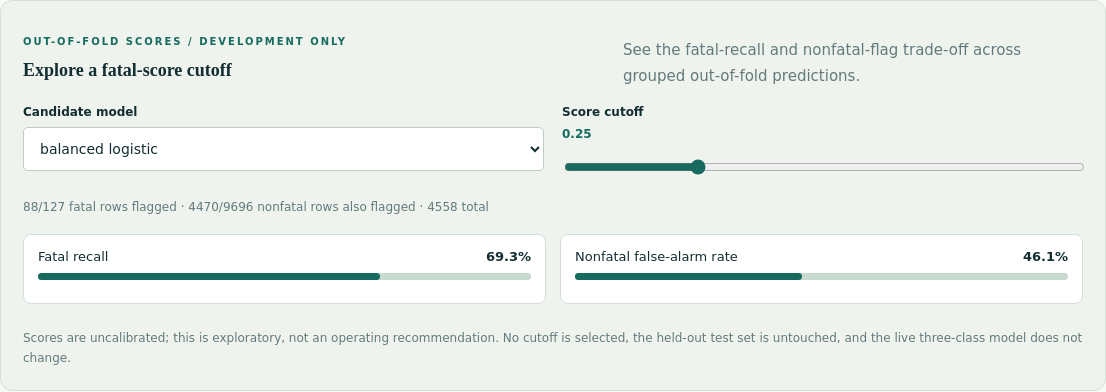
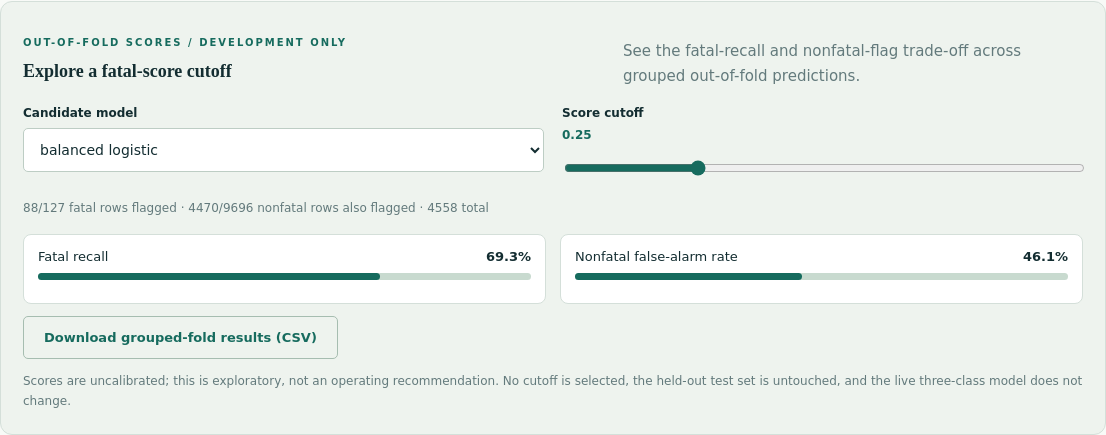
Export grouped fatal cutoff results

diff --git a/web/index.html b/web/index.html
@@ -1,1 +1,1 @@
-<!doctype html><html lang="en"><head><meta charset="UTF-8"><meta name="viewport" content="width=device-width,initial-scale=1"><title>RoadLab — Severity study</title><link rel="stylesheet" href="/static/style.css"></head><body><header><a class="brand" href="/">R/ <span>RoadLab</span></a><span class="chip">LOCAL EXPERIMENT / 01</span></header><main><section class="hero"><div><p class="eyebrow">FROM A NOTEBOOK TO A TESTABLE SYSTEM</p><h1>Understand the signal.<br><em>Respect the uncertainty.</em></h1><p class="lede">A road accident severity study. Explore measured model performance, then run a real local inference on a hypothetical scene.</p></div><div class="road" aria-hidden="true"><i></i><i></i><i></i><i></i><b>01</b></div></section><div class="notice">Research prototype only. These are retrospective accident records—not a pre-crash forecast, live traffic service or emergency triage system.</div><div id="status" role="status">Loading local model…</div><section class="metrics" id="metrics"></section><nav role="tablist" aria-label="Workspace views"><button type="button" role="tab" id="tab-experiment" aria-controls="experiment" aria-selected="true" tabindex="0" class="active" data-tab="experiment">01 / Experiment</button><button type="button" role="tab" id="tab-evaluation" aria-controls="evaluation" aria-selected="false" tabindex="-1" data-tab="evaluation">02 / Evidence</button><button type="button" role="tab" id="tab-method" aria-controls="method" aria-selected="false" tabindex="-1" data-tab="method">03 / Method</button></nav><section id="experiment" class="tab" role="tabpanel" aria-labelledby="tab-experiment" tabindex="0"><div class="workspace"><div><p class="eyebrow">BUILD A SCENE</p><h2>A small change.<br>A different response?</h2><p>Inputs are constrained to categories observed in training. Missing means unknown, not an assumed average.</p><button id="example" class="secondary">Load training example</button><form id="form"><div class="fields" id="fields"></div><button class="primary" id="run">Run local inference <span>↗</span></button></form></div><aside><p class="eyebrow">MODEL RESPONSE</p><div id="result" aria-live="polite"><h3>Ready when you are.</h3><p>Choose a scene and run the model. No inputs leave this local server.</p></div><p class="small">Scores are uncalibrated model outputs. A larger score does not make the result reliable or suitable for an individual decision.</p></aside></div></section><section id="evaluation" class="tab" role="tabpanel" aria-labelledby="tab-evaluation" tabindex="0" hidden><div class="section-head"><div><p class="eyebrow">MEASURED, NOT PROMISED</p><h2>Accuracy can hide the hardest cases.</h2></div><p>Model selection uses validation macro-F1. Test results are measured only after the candidates and selection rule are fixed.</p></div><div class="tablewrap"><table><thead><tr><th>Candidate</th><th>Validation macro-F1</th><th>Test macro-F1</th><th>Test accuracy</th><th>Balanced accuracy</th></tr></thead><tbody id="comparison"></tbody></table></div><h3>Selected model · per-class recall</h3><div id="recalls"></div><p id="fatal-recall-ci" class="small"></p><section class="validation-audit" aria-labelledby="fatal-audit-heading"><div class="section-head"><div><p class="eyebrow">EXPLORATORY ERROR REVIEW / VALIDATION</p><h3 id="fatal-audit-heading">Where fatal cases were missed</h3></div><p id="fatal-audit-summary"></p></div><div class="tablewrap"><table><thead><tr><th>Predicted label for missed fatal rows</th><th>Count</th></tr></thead><tbody id="fatal-audit-breakdown"></tbody></table></div><p id="fatal-audit-note" class="small"></p></section><section class="cross-validation" aria-labelledby="cv-heading"><div class="section-head"><div><p class="eyebrow">GROUPED CROSS-VALIDATION / DEVELOPMENT ONLY</p><h3 id="cv-heading">Fatal-recall trade-offs</h3></div><p id="cv-summary"></p></div><div class="tablewrap"><table><thead><tr><th>Candidate</th><th>OOF fatal recall</th><th>Fatal recall by fold</th><th>OOF macro-F1 · fold mean ± SD</th></tr></thead><tbody id="cv-results"></tbody></table></div><p id="cv-note" class="small"></p><section class="threshold-explorer" aria-labelledby="threshold-heading"><div class="section-head"><div><p class="eyebrow">OUT-OF-FOLD SCORES / DEVELOPMENT ONLY</p><h4 id="threshold-heading">Explore a fatal-score cutoff</h4></div><p>See the fatal-recall and nonfatal-flag trade-off across grouped out-of-fold predictions.</p></div><div class="threshold-controls"><label for="fatal-threshold-model">Candidate model<select id="fatal-threshold-model"></select></label><label for="fatal-threshold-slider">Score cutoff <output id="fatal-threshold-value" for="fatal-threshold-slider">0.50</output><input id="fatal-threshold-slider" type="range" min="0" max="1" step="0.05" value="0.50"></label></div><p id="fatal-threshold-counts" class="small" aria-live="polite"></p><div id="fatal-threshold-scores" class="threshold-scores"></div><p class="small">Scores are uncalibrated; this is exploratory, not an operating recommendation. No cutoff is selected, the held-out test set is untouched, and the live three-class model does not change.</p></section></section><img src="/static/evaluation.png" alt="Confusion matrix and model comparison on the held-out grouped test set"><div id="interval" class="interval-grid" aria-label="Macro-F1 uncertainty intervals"></div><p id="interval-note" class="small"></p></section><section id="method" class="tab" role="tabpanel" aria-labelledby="tab-method" tabindex="0" hidden><p class="eyebrow">THE ENGINEERING CHOICES</p><h2>A model is only one part of the project.</h2><div class="methodgrid"><article><h3>01 / Prevent leakage</h3><p>Casualty severity, injury details, casualty counts and accident cause are excluded. Identical selected-feature profiles stay within a single split, even with conflicting labels.</p></article><article><h3>02 / Fit only on train</h3><p>Imputation, scaling and one-hot encoding live inside a scikit-learn Pipeline. Validation selects the model; the test split never trains it.</p></article><article><h3>03 / Examine weak classes</h3><p>Majority baseline, macro-F1, balanced accuracy, per-class recall, confusion matrix and a stratified bootstrap interval make imbalance visible.</p></article><article><h3>04 / Keep limits visible</h3><p>There is no independent temporal or geographic validation. This dataset is retrospective and rare fatal cases limit confidence. Do not use it for safety decisions.</p></article></div><pre id="provenance"></pre><a href="/docs">Explore the API contract ↗</a></section><footer>RoadLab / An AI-assisted engineering study based on the Samatrix road-severity exercise. <span>Built to inspect, reproduce and explain.</span></footer></main><script src="/static/app.js"></script></body></html>
+<!doctype html><html lang="en"><head><meta charset="UTF-8"><meta name="viewport" content="width=device-width,initial-scale=1"><title>RoadLab — Severity study</title><link rel="stylesheet" href="/static/style.css"></head><body><header><a class="brand" href="/">R/ <span>RoadLab</span></a><span class="chip">LOCAL EXPERIMENT / 01</span></header><main><section class="hero"><div><p class="eyebrow">FROM A NOTEBOOK TO A TESTABLE SYSTEM</p><h1>Understand the signal.<br><em>Respect the uncertainty.</em></h1><p class="lede">A road accident severity study. Explore measured model performance, then run a real local inference on a hypothetical scene.</p></div><div class="road" aria-hidden="true"><i></i><i></i><i></i><i></i><b>01</b></div></section><div class="notice">Research prototype only. These are retrospective accident records—not a pre-crash forecast, live traffic service or emergency triage system.</div><div id="status" role="status">Loading local model…</div><section class="metrics" id="metrics"></section><nav role="tablist" aria-label="Workspace views"><button type="button" role="tab" id="tab-experiment" aria-controls="experiment" aria-selected="true" tabindex="0" class="active" data-tab="experiment">01 / Experiment</button><button type="button" role="tab" id="tab-evaluation" aria-controls="evaluation" aria-selected="false" tabindex="-1" data-tab="evaluation">02 / Evidence</button><button type="button" role="tab" id="tab-method" aria-controls="method" aria-selected="false" tabindex="-1" data-tab="method">03 / Method</button></nav><section id="experiment" class="tab" role="tabpanel" aria-labelledby="tab-experiment" tabindex="0"><div class="workspace"><div><p class="eyebrow">BUILD A SCENE</p><h2>A small change.<br>A different response?</h2><p>Inputs are constrained to categories observed in training. Missing means unknown, not an assumed average.</p><button id="example" class="secondary">Load training example</button><form id="form"><div class="fields" id="fields"></div><button class="primary" id="run">Run local inference <span>↗</span></button></form></div><aside><p class="eyebrow">MODEL RESPONSE</p><div id="result" aria-live="polite"><h3>Ready when you are.</h3><p>Choose a scene and run the model. No inputs leave this local server.</p></div><p class="small">Scores are uncalibrated model outputs. A larger score does not make the result reliable or suitable for an individual decision.</p></aside></div></section><section id="evaluation" class="tab" role="tabpanel" aria-labelledby="tab-evaluation" tabindex="0" hidden><div class="section-head"><div><p class="eyebrow">MEASURED, NOT PROMISED</p><h2>Accuracy can hide the hardest cases.</h2></div><p>Model selection uses validation macro-F1. Test results are measured only after the candidates and selection rule are fixed.</p></div><div class="tablewrap"><table><thead><tr><th>Candidate</th><th>Validation macro-F1</th><th>Test macro-F1</th><th>Test accuracy</th><th>Balanced accuracy</th></tr></thead><tbody id="comparison"></tbody></table></div><h3>Selected model · per-class recall</h3><div id="recalls"></div><p id="fatal-recall-ci" class="small"></p><section class="validation-audit" aria-labelledby="fatal-audit-heading"><div class="section-head"><div><p class="eyebrow">EXPLORATORY ERROR REVIEW / VALIDATION</p><h3 id="fatal-audit-heading">Where fatal cases were missed</h3></div><p id="fatal-audit-summary"></p></div><div class="tablewrap"><table><thead><tr><th>Predicted label for missed fatal rows</th><th>Count</th></tr></thead><tbody id="fatal-audit-breakdown"></tbody></table></div><p id="fatal-audit-note" class="small"></p></section><section class="cross-validation" aria-labelledby="cv-heading"><div class="section-head"><div><p class="eyebrow">GROUPED CROSS-VALIDATION / DEVELOPMENT ONLY</p><h3 id="cv-heading">Fatal-recall trade-offs</h3></div><p id="cv-summary"></p></div><div class="tablewrap"><table><thead><tr><th>Candidate</th><th>OOF fatal recall</th><th>Fatal recall by fold</th><th>OOF macro-F1 · fold mean ± SD</th></tr></thead><tbody id="cv-results"></tbody></table></div><p id="cv-note" class="small"></p><section class="threshold-explorer" aria-labelledby="threshold-heading"><div class="section-head"><div><p class="eyebrow">OUT-OF-FOLD SCORES / DEVELOPMENT ONLY</p><h4 id="threshold-heading">Explore a fatal-score cutoff</h4></div><p>See the fatal-recall and nonfatal-flag trade-off across grouped out-of-fold predictions.</p></div><div class="threshold-controls"><label for="fatal-threshold-model">Candidate model<select id="fatal-threshold-model"></select></label><label for="fatal-threshold-slider">Score cutoff <output id="fatal-threshold-value" for="fatal-threshold-slider">0.50</output><input id="fatal-threshold-slider" type="range" min="0" max="1" step="0.05" value="0.50"></label></div><p id="fatal-threshold-counts" class="small" aria-live="polite"></p><div id="fatal-threshold-scores" class="threshold-scores"></div><button id="export-fatal-cutoffs" class="secondary" type="button">Download grouped-fold results (CSV)</button><p class="small">Scores are uncalibrated; this is exploratory, not an operating recommendation. No cutoff is selected, the held-out test set is untouched, and the live three-class model does not change.</p></section></section><img src="/static/evaluation.png" alt="Confusion matrix and model comparison on the held-out grouped test set"><div id="interval" class="interval-grid" aria-label="Macro-F1 uncertainty intervals"></div><p id="interval-note" class="small"></p></section><section id="method" class="tab" role="tabpanel" aria-labelledby="tab-method" tabindex="0" hidden><p class="eyebrow">THE ENGINEERING CHOICES</p><h2>A model is only one part of the project.</h2><div class="methodgrid"><article><h3>01 / Prevent leakage</h3><p>Casualty severity, injury details, casualty counts and accident cause are excluded. Identical selected-feature profiles stay within a single split, even with conflicting labels.</p></article><article><h3>02 / Fit only on train</h3><p>Imputation, scaling and one-hot encoding live inside a scikit-learn Pipeline. Validation selects the model; the test split never trains it.</p></article><article><h3>03 / Examine weak classes</h3><p>Majority baseline, macro-F1, balanced accuracy, per-class recall, confusion matrix and a stratified bootstrap interval make imbalance visible.</p></article><article><h3>04 / Keep limits visible</h3><p>There is no independent temporal or geographic validation. This dataset is retrospective and rare fatal cases limit confidence. Do not use it for safety decisions.</p></article></div><pre id="provenance"></pre><a href="/docs">Explore the API contract ↗</a></section><footer>RoadLab / An AI-assisted engineering study based on the Samatrix road-severity exercise. <span>Built to inspect, reproduce and explain.</span></footer></main><script src="/static/app.js"></script></body></html>

diff --git a/web/app.js b/web/app.js
@@ -10,5 +10,6 @@ tabs.forEach((button,index)=>{button.addEventListener('click',()=>activateTab(bu
 async function init(){try{const response=await fetch('/api/metadata');if(!response.ok)throw Error('Model unavailable. Train the model, then restart the server.');meta=await response.json();const {schema,metrics:m}=meta;$('#status').textContent='Model ready · '+pretty(m.selected)+' · local inference';[['Test macro-F1',m.models[m.selected].test.macro_f1.toFixed(3)],['Fatal cases in test',m.split.class_counts.test['Fatal injury']],['Held-out test rows',m.split.rows.test],['Feature-profile overlap',m.split.profile_overlap]].forEach(([name,value])=>{const card=el('div','');card.className='metric';card.append(el('strong',value),el('span',name));$('#metrics').append(card)});schema.features.forEach(key=>{const label=el('label',pretty(key));let input;if(schema.categories[key]){input=el('select','');input.append(new Option('Unknown / missing',''));schema.categories[key].forEach(value=>input.append(new Option(value,value)))}else{input=el('input','');input.type='number';input.min=schema.numeric[key].min;input.max=schema.numeric[key].max;input.step='1';input.placeholder='Unknown';}input.name=key;label.append(input);$('#fields').append(label)});Object.entries(m.models).forEach(([name,report])=>{const row=el('tr','');if(name===m.selected)row.className='selected';[pretty(name)+(name===m.selected?' · selected':''),report.validation_macro_f1.toFixed(3),report.test.macro_f1.toFixed(3),pct(report.test.accuracy),pct(report.test.balanced_accuracy)].forEach(v=>row.append(el('td',v)));$('#comparison').append(row)});scores($('#recalls'),m.labels.map(label=>[label,m.models[m.selected].test.per_class[label].recall]));const fatalCounts=m.selected_fatal_recall_test_counts,fatalInterval=m.selected_fatal_recall_wilson_95_ci;$('#fatal-recall-ci').textContent='Fatal recall: '+fatalCounts.detected+'/'+fatalCounts.fatal_rows+' test cases; 95% Wilson interval '+pct(fatalInterval[0])+'–'+pct(fatalInterval[1])+'. This reflects sampling variation for this fixed model and test set only.';const audit=m.validation_fatal_error_analysis;$('#fatal-audit-summary').textContent=audit.correctly_classified+' of '+audit.fatal_rows+' fatal-labelled validation rows were classified as fatal; '+audit.missed+' were missed.';audit.missed_predictions.forEach(item=>{const row=el('tr','');row.append(el('td',item.label),el('td',item.count));$('#fatal-audit-breakdown').append(row)});$('#fatal-audit-note').textContent=audit.interpretation;const cv=m.development_grouped_cross_validation;$('#cv-summary').textContent=cv.n_splits+'-fold '+cv.method+' · '+cv.development_rows.toLocaleString('en-US')+' development rows; fatal rows per fold: '+cv.folds.map(fold=>fold.validation_fatal_rows).join(' / ')+'.';Object.entries(cv.models).forEach(([name,stats])=>{const row=el('tr','');row.append(el('td',pretty(name)),el('td',pct(stats.oof_fatal_recall)+' · '+stats.oof_fatal_correct+'/'+stats.oof_fatal_rows),el('td',stats.fold_fatal_recall.map(pct).join(' / ')),el('td',stats.oof_macro_f1.toFixed(3)+' · '+stats.mean_fold_macro_f1.toFixed(3)+' ± '+stats.sd_fold_macro_f1.toFixed(3)));$('#cv-results').append(row)});$('#cv-note').textContent=cv.scope+' Group keys are hashes of input-feature profiles, not incident IDs; this cannot rule out overlap between distinct records from the same accident.';const thresholdModel=$('#fatal-threshold-model');Object.keys(cv.models).forEach(name=>thresholdModel.append(new Option(pretty(name),name)));thresholdModel.value=m.selected;const thresholdSlider=$('#fatal-threshold-slider');const updateThreshold=()=>{const cutoff=Number(thresholdSlider.value);const points=cv.models[thresholdModel.value].fatal_score_threshold_curve;const point=points.reduce((best,item)=>Math.abs(item.threshold-cutoff)<Math.abs(best.threshold-cutoff)?item:best,points[0]);$('#fatal-threshold-value').value=point.threshold.toFixed(2);$('#fatal-threshold-value').textContent=point.threshold.toFixed(2);$('#fatal-threshold-counts').textContent=point.fatal_detected+'/'+point.fatal_rows+' fatal rows flagged · '+point.nonfatal_flagged+'/'+point.nonfatal_rows+' nonfatal rows also flagged · '+point.all_rows_flagged+' total';scores($('#fatal-threshold-scores'),[['Fatal recall',point.fatal_recall],['Nonfatal false-alarm rate',point.nonfatal_false_alarm_rate]])};thresholdSlider.addEventListener('input',updateThreshold);thresholdModel.addEventListener('change',updateThreshold);updateThreshold();const intervalCard=(title,bounds,detail)=>{const card=el('div','');card.className='interval-card';card.append(el('span',title),el('strong',bounds.map(x=>x.toFixed(3)).join('–')),el('small',detail));return card};const profile=m.profile_cluster_bootstrap;$('#interval').replaceChildren(intervalCard('Stratified row bootstrap',m.selected_macro_f1_bootstrap_95_ci,m.bootstrap_replicates+' resamples'),intervalCard('Profile-cluster sensitivity',profile.interval,profile.replicates+' resamples · '+profile.test_profile_groups.toLocaleString('en-US')+' test profiles'));$('#interval-note').textContent='The clusters are identical input profiles, not incident IDs; this sensitivity interval addresses repeated profiles only. Both intervals are descriptive for this fixed model and holdout, not dataset shift or model-selection uncertainty.';$('#provenance').textContent='Data: '+m.dataset.raw_rows+' raw records → '+m.dataset.unique_rows+' unique records.\nSplit: '+m.split.method+'; seed '+m.seed+'.\nTraining / validation / test: '+Object.values(m.split.rows).join(' / ')+'.\nDataset SHA-256: '+m.dataset.sha256;loadExample();}catch(error){$('#status').textContent=error.message;$('#run').disabled=true;}}
 function loadExample(){if(!meta)return;const sample=meta.examples[example++%meta.examples.length];Object.entries(sample).forEach(([key,value])=>{$('#form').elements[key].value=value??''});}
 $('#example').onclick=loadExample;
+$('#export-fatal-cutoffs').onclick=()=>{const name=$('#fatal-threshold-model').value;const points=meta.metrics.development_grouped_cross_validation.models[name].fatal_score_threshold_curve;const columns=['threshold','fatal_detected','fatal_rows','fatal_recall','nonfatal_flagged','nonfatal_rows','nonfatal_false_alarm_rate','all_rows_flagged'];const quote=value=>'"'+String(value).replaceAll('"','""')+'"';const csv=[columns,...points.map(point=>columns.map(key=>point[key]))].map(row=>row.map(quote).join(',')).join('\r\n');const blob=new Blob([csv],{type:'text/csv;charset=utf-8'});const link=document.createElement('a');link.href=URL.createObjectURL(blob);link.download='roadlab-'+name+'-fatal-cutoffs.csv';link.click();setTimeout(()=>URL.revokeObjectURL(link.href),1000);};
 $('#form').onsubmit=async event=>{event.preventDefault();const record={};for(const key of meta.schema.features){const value=$('#form').elements[key].value;record[key]=value===''?null:meta.schema.numeric[key]?Number(value):value;}$('#run').disabled=true;$('#result').textContent='Running…';try{const response=await fetch('/api/predict',{method:'POST',headers:{'Content-Type':'application/json'},body:JSON.stringify({records:[record]})});const data=await response.json();if(!response.ok)throw Error(typeof data.detail==='string'?data.detail:JSON.stringify(data.detail));const prediction=data.predictions[0];$('#result').replaceChildren(el('h3',prediction.label),el('p','Highest-scoring class, not a verified outcome.'));const bars=el('div','');scores(bars,Object.entries(prediction.scores));$('#result').append(bars);}catch(error){$('#result').textContent=error.message;}finally{$('#run').disabled=false;}};
 init();

diff --git a/scripts/check_ui.py b/scripts/check_ui.py
@@ -46,6 +46,8 @@ with sync_playwright() as p:
     assert page.locator('#cv-results tr').count() == 4
     assert page.locator('#cv-results tr').first.locator('td').count() == 4
     assert page.locator('#fatal-threshold-model option').count() == 4
+    assert '11/31 test cases' in page.locator('#fatal-recall-ci').inner_text()
+    assert 'wilson interval' in page.locator('#fatal-recall-ci').inner_text().lower()
     assert 'fatal recall' in page.locator('#fatal-threshold-scores').inner_text().lower()
     assert 'nonfatal false-alarm rate' in page.locator('#fatal-threshold-scores').inner_text().lower()
     page.locator('#fatal-threshold-slider').evaluate("element => { element.value = '0.25'; element.dispatchEvent(new Event('input', { bubbles: true })); }")
@@ -54,6 +56,14 @@ with sync_playwright() as p:
     page.locator('#fatal-threshold-model').select_option('balanced_logistic')
     assert 'fatal rows flagged' in page.locator('#fatal-threshold-counts').inner_text().lower()
     assert 'no cutoff is selected' in page.locator('.threshold-explorer').inner_text().lower()
+    with page.expect_download() as download_info:
+        page.locator('#export-fatal-cutoffs').click()
+    download = download_info.value
+    assert download.suggested_filename == 'roadlab-balanced_logistic-fatal-cutoffs.csv'
+    download.save_as('/tmp/roadlab-fatal-cutoffs.csv')
+    csv_text = Path('/tmp/roadlab-fatal-cutoffs.csv').read_text()
+    assert csv_text.startswith('\"threshold\",\"fatal_detected\"')
+    assert len(csv_text.splitlines()) == 22
     assert page.locator('#interval .interval-card').count() == 2
     interval_cards = page.locator('#interval .interval-card')
     assert 'stratified row bootstrap' in interval_cards.nth(0).inner_text().lower()

diff --git a/docs/MODEL-CARD.md b/docs/MODEL-CARD.md
@@ -11,7 +11,7 @@ Ten fields: hour, vehicles involved, day, area type, junction, road surface type
 
 All learned imputation/encoding/scaling occurs within a training-fitted Pipeline. Three fixed balanced models compete on validation macro-F1; majority is a reference, not a production candidate. A separate five-fold `StratifiedGroupKFold` compares these candidates on the 9,823 development rows only, grouping by hashes of the ten selected input features; the final test holdout is excluded from every CV fit and score. The earlier validation split already selected the current model, so this CV comparison is exploratory rather than an independent post-selection estimate. Identical input profiles are not known incident IDs. The selected model is not refitted on validation, so the artifact is exactly the model evaluated on the held-out test set. There is no tuning after test inspection. See `artifacts/metrics.json` for full metrics, runtime versions and class counts.
 
-Development-only grouped CV (out-of-fold, 5 folds; 127 fatal-labelled rows): majority 0/127 fatal recall 0.000 and macro-F1 0.305; balanced logistic 63/127 (0.496) and 0.282; balanced tree 58/127 (0.457) and 0.365; balanced forest 27/127 (0.213) and 0.425. The forest leads on macro-F1; logistic has the highest fatal recall. These are exploratory comparisons, not independent post-selection estimates, and identical input profiles are not incident IDs. The accompanying fatal-score cutoff curves summarize out-of-fold development predictions only; scores are uncalibrated, no cutoff is selected or recommended, and the deployed three-class model is unchanged.
+Development-only grouped CV (out-of-fold, 5 folds; 127 fatal-labelled rows): majority 0/127 fatal recall 0.000 and macro-F1 0.305; balanced logistic 63/127 (0.496) and 0.282; balanced tree 58/127 (0.457) and 0.365; balanced forest 27/127 (0.213) and 0.425. The forest leads on macro-F1; logistic has the highest fatal recall. These are exploratory comparisons, not independent post-selection estimates, and identical input profiles are not incident IDs. The accompanying fatal-score cutoff curves summarize out-of-fold development predictions only; scores are uncalibrated, no cutoff is selected or recommended, and the deployed three-class model is unchanged. The interface can export the grouped-fold cutoff counts as CSV for further inspection.
 
 ## Findings
 Balanced random forest: test macro-F1 0.442, accuracy 0.731, fatal recall 0.355 (11 of 31 fatal test cases), serious recall 0.387, slight recall 0.794. The 95% Wilson interval for fatal recall is 0.211–0.531 (11/31); it describes sampling variation for this fixed model and test set only. The 300-resample stratified row-bootstrap 95% interval for macro-F1 is 0.412–0.474. A second 300-resample bootstrap of whole identical-feature-profile groups gives 0.411–0.473; it sampled 2,258 test groups, and none of its replicates omitted a class. Both intervals are descriptive and conditional on this fixed model and holdout. The group bootstrap addresses dependence among rows with identical input profiles only; profiles are not incident identifiers, and neither interval estimates uncertainty over new datasets, retraining or model selection. An exploratory audit on the validation split found 3 of 33 fatal-labelled rows correctly classified and 30 missed (19 predicted slight, 11 serious). Validation was also used for model selection, so this is not an independent performance estimate; only aggregate counts are published.
